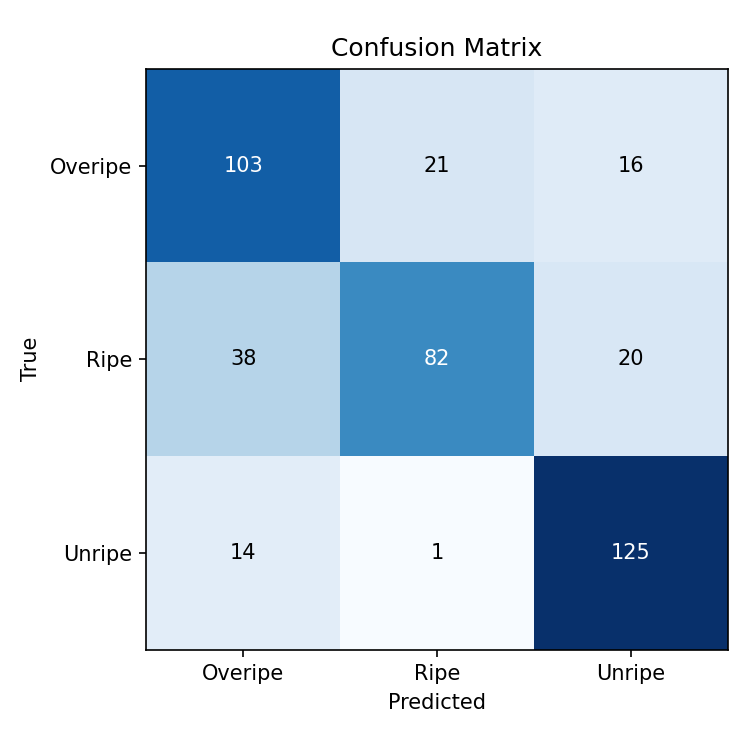
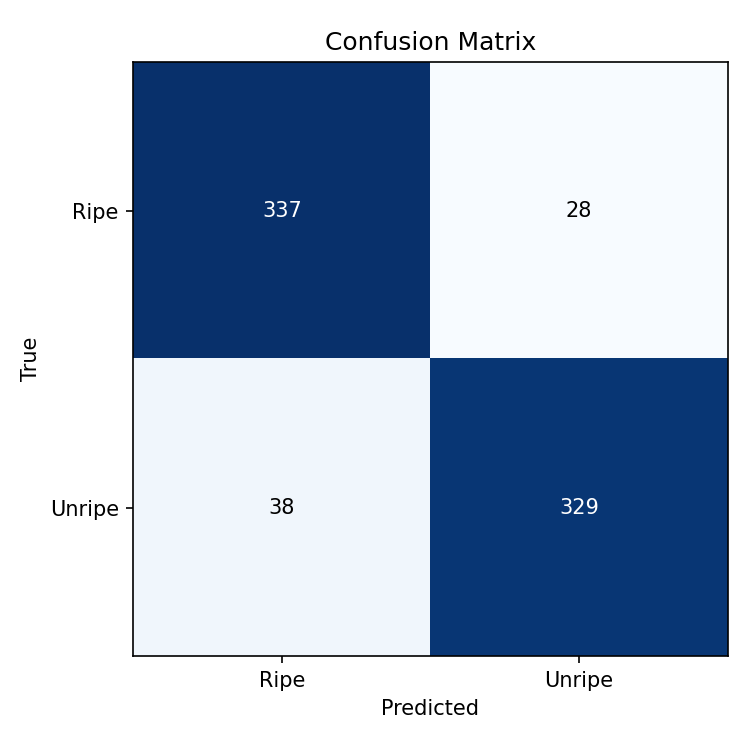
Project_ff update0.1

diff --git a/project_ff/classification/main.py b/project_ff/classification/main.py
@@ -17,15 +17,15 @@ OUTPUT_DIR = os.path.join(BASE_DIR, "outputs")
 IMG_SIZE = 100
 TEST_SIZE = 0.2
 VAL_SIZE = 0.1
-MAX_PER_CLASS = 700   # None = use all images
-EPOCHS = 20
+MAX_PER_CLASS = None  # None = use all images
+EPOCHS = 30
 BATCH_SIZE = 64
 
 
 def main():
 
     print("--" * 30)
-    print("Fruit Ripeness Unripe / Ripe / Overripe")
+    print("Fruit Ripeness Unripe / Ripe ")
     print("--" * 30)
 
     os.makedirs(OUTPUT_DIR, exist_ok=True)

diff --git a/project_ff/README.md b/project_ff/README.md
@@ -1,5 +1,5 @@
 # Fruit Ripeness Detection
-project for classifying fruit ripeness (Unripe, Ripe, Overripe)
+project for classifying fruit ripeness (Unripe, Ripe)
 ## Structure
 ```text
 project_ff/
@@ -28,7 +28,7 @@ project_ff/
 ## Setup
 1. Create virtual environment and install dependencies:
    `pip install -r requirements.txt`
-2. Place your images in `data/unripe`, `data/ripe`, `data/overripe`.
+2. Place your images in `data/unripe`, `data/ripe`
 
 ## How to Run
 - To train the model: 
